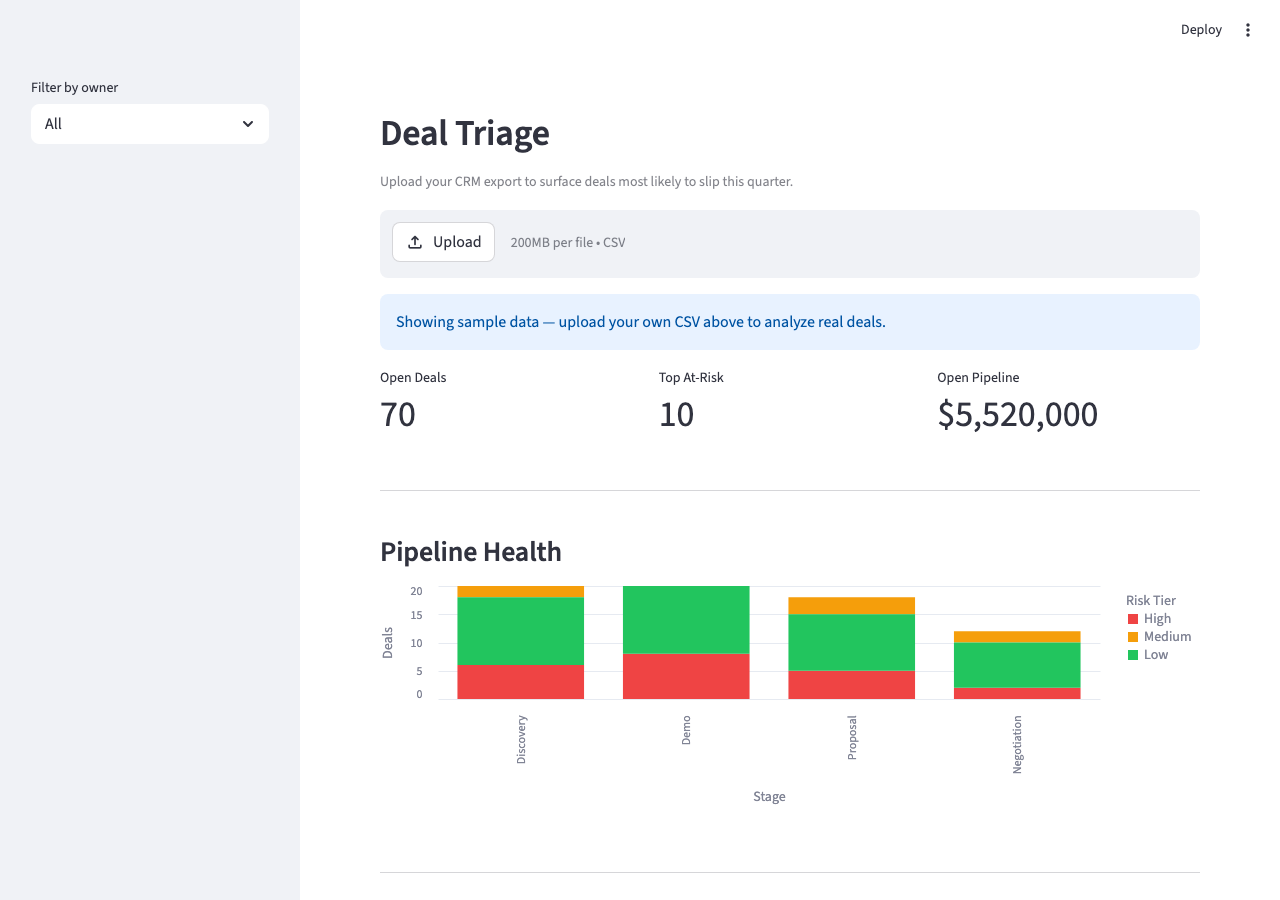
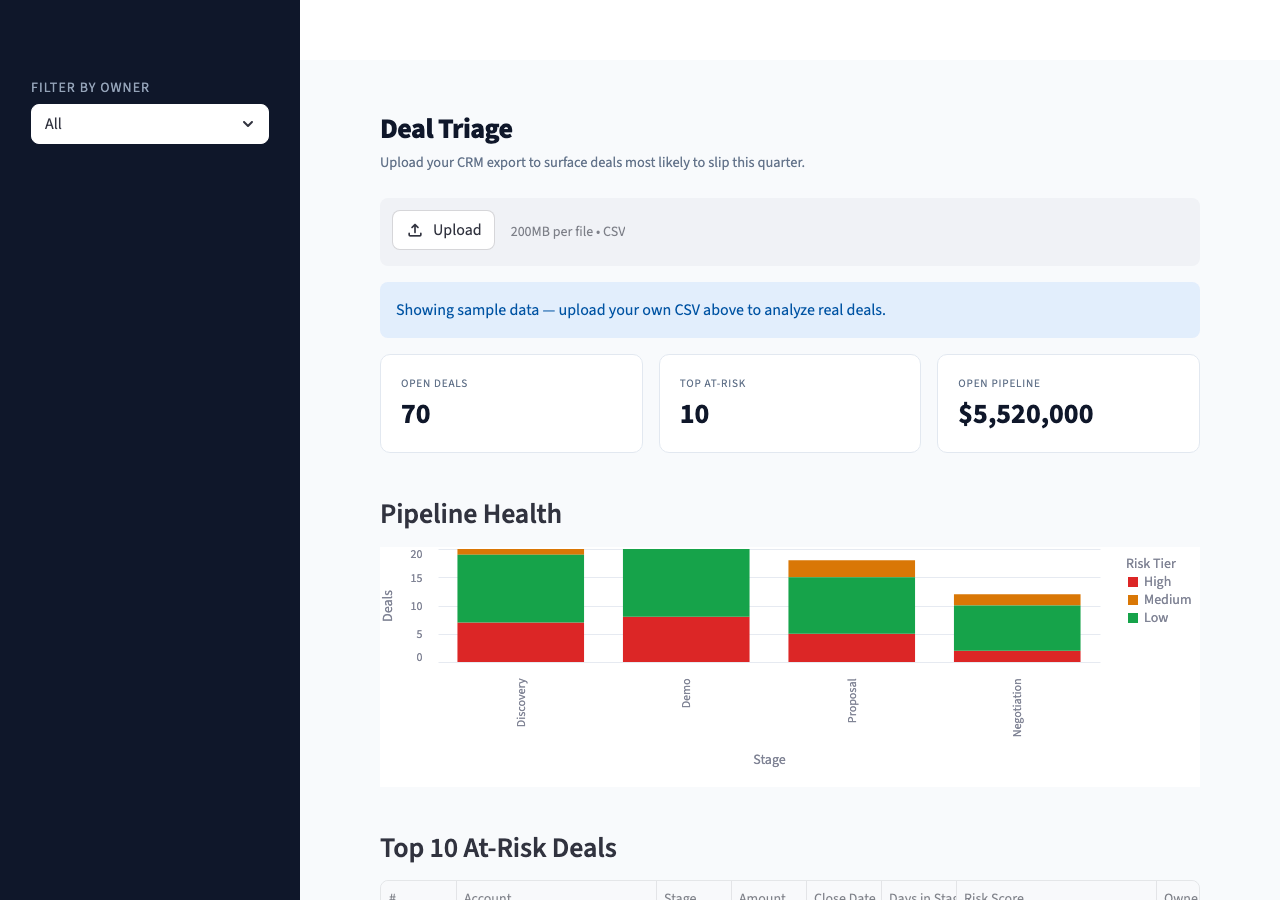
feat: v1.3 — visual design polish
Replaces default Streamlit styling with intentional design: dark navy
sidebar, white metric cards with uppercase labels, card-style deal
expanders with borders, CSS pill badges for confidence levels, and a
ProgressColumn on the risk score in the top-10 table. Hides Streamlit
chrome (toolbar, footer, hamburger). Pins theme to light via
.streamlit/config.toml for consistent cross-browser appearance.

diff --git a/app.py b/app.py
@@ -169,8 +169,64 @@ def get_claude_explanation(row, transcript=""):
 # Page setup
 # ---------------------------------------------------------------------------
 st.set_page_config(page_title="Deal Triage", layout="wide")
-st.header("Deal Triage")
-st.caption("Upload your CRM export to surface deals most likely to slip this quarter.")
+
+st.markdown("""<style>
+/* ── Hide Streamlit chrome ── */
+#MainMenu, footer { visibility: hidden; }
+[data-testid="stToolbar"] { display: none; }
+.stDeployButton { display: none !important; }
+
+/* ── App shell ── */
+.main .block-container { padding-top: 2.5rem; padding-bottom: 3rem; max-width: 1080px; }
+.stApp { background: #f8fafc; }
+
+/* ── Metric cards ── */
+[data-testid="stMetric"] {
+    background: white;
+    border: 1px solid #e2e8f0;
+    border-radius: 10px;
+    padding: 1rem 1.25rem;
+}
+[data-testid="stMetricLabel"] > div {
+    color: #64748b !important;
+    font-size: 0.7rem !important;
+    text-transform: uppercase;
+    letter-spacing: 0.07em;
+    font-weight: 600;
+}
+[data-testid="stMetricValue"] > div {
+    color: #0f172a !important;
+    font-size: 1.75rem !important;
+    font-weight: 700 !important;
+}
+
+/* ── Sidebar ── */
+[data-testid="stSidebar"] { background: #0f172a !important; }
+[data-testid="stSidebar"] label {
+    color: #94a3b8 !important;
+    font-size: 0.65rem !important;
+    text-transform: uppercase;
+    letter-spacing: 0.1em;
+}
+
+/* ── Deal expanders ── */
+[data-testid="stExpander"] {
+    background: white !important;
+    border: 1px solid #e2e8f0 !important;
+    border-radius: 10px !important;
+}
+[data-testid="stExpander"] summary { font-weight: 500; }
+
+/* ── Hide dividers — spacing handled by padding ── */
+hr { display: none !important; }
+</style>""", unsafe_allow_html=True)
+
+st.markdown("""
+<div style="padding:0 0 1.5rem 0">
+  <div style="font-size:1.75rem;font-weight:800;color:#0f172a;letter-spacing:-0.02em;line-height:1.2">Deal Triage</div>
+  <div style="color:#64748b;margin-top:0.35rem;font-size:0.9rem">Upload your CRM export to surface deals most likely to slip this quarter.</div>
+</div>
+""", unsafe_allow_html=True)
 
 # ---------------------------------------------------------------------------
 # Data loading
@@ -238,7 +294,7 @@ import altair as alt
 st.subheader("Pipeline Health")
 
 _STAGE_ORDER = ["Discovery", "Demo", "Proposal", "Negotiation"]
-_TIER_COLORS = ["#ef4444", "#f59e0b", "#22c55e"]
+_TIER_COLORS = ["#dc2626", "#d97706", "#16a34a"]
 
 def _risk_tier(score):
     return "High" if score >= 70 else "Medium" if score >= 40 else "Low"
@@ -278,7 +334,27 @@ table_df.insert(0, "#", range(1, len(table_df) + 1))
 table_df["amount"] = table_df["amount"].apply(lambda v: f"${int(v):,}")
 table_df.columns = ["#", "Account", "Stage", "Amount",
                     "Close Date", "Days in Stage", "Risk Score", "Owner"]
-st.dataframe(table_df, use_container_width=True, hide_index=True)
+st.dataframe(
+    table_df,
+    use_container_width=True,
+    hide_index=True,
+    column_config={
+        "#":             st.column_config.NumberColumn(width="small"),
+        "Account":       st.column_config.TextColumn(width="medium"),
+        "Stage":         st.column_config.TextColumn(width="small"),
+        "Amount":        st.column_config.TextColumn(width="small"),
+        "Close Date":    st.column_config.TextColumn(width="small"),
+        "Days in Stage": st.column_config.NumberColumn(width="small"),
+        "Risk Score":    st.column_config.ProgressColumn(
+                             "Risk Score",
+                             min_value=0,
+                             max_value=100,
+                             format="%d",
+                             width="medium",
+                         ),
+        "Owner":         st.column_config.TextColumn(width="small"),
+    },
+)
 
 # ---------------------------------------------------------------------------
 # Claude analysis
@@ -314,7 +390,11 @@ else:
 # ---------------------------------------------------------------------------
 st.subheader("Deal Detail")
 
-CONFIDENCE_BADGE = {"High": "🔴 High", "Medium": "🟡 Medium", "Low": "🟢 Low"}
+CONFIDENCE_BADGE = {
+    "High":   '<span style="background:#fee2e2;color:#b91c1c;padding:2px 12px;border-radius:99px;font-size:0.75rem;font-weight:600">High</span>',
+    "Medium": '<span style="background:#fef3c7;color:#92400e;padding:2px 12px;border-radius:99px;font-size:0.75rem;font-weight:600">Medium</span>',
+    "Low":    '<span style="background:#dcfce7;color:#166534;padding:2px 12px;border-radius:99px;font-size:0.75rem;font-weight:600">Low</span>',
+}
 
 for rank, (_, row) in enumerate(top10.iterrows(), start=1):
     label = f"#{rank} — {row['account_name']}  ·  {row['stage']}  ·  Risk score: {row['risk_score']}/100"
@@ -337,8 +417,8 @@ for rank, (_, row) in enumerate(top10.iterrows(), start=1):
         explanation = st.session_state.explanations.get(row["deal_id"])
         if explanation:
             st.markdown("---")
-            confidence_label = CONFIDENCE_BADGE.get(explanation.get("confidence", ""), "⚪ Unknown")
-            st.markdown(f"**Confidence:** {confidence_label}")
+            confidence_label = CONFIDENCE_BADGE.get(explanation.get("confidence", ""), "<span>Unknown</span>")
+            st.markdown(f"**Confidence:** {confidence_label}", unsafe_allow_html=True)
             st.markdown(f"**Risk:** {explanation.get('risk_explanation', '')}")
             st.markdown(f"**Suggested action this week:** {explanation.get('next_action', '')}")
         elif st.session_state.explanations:
